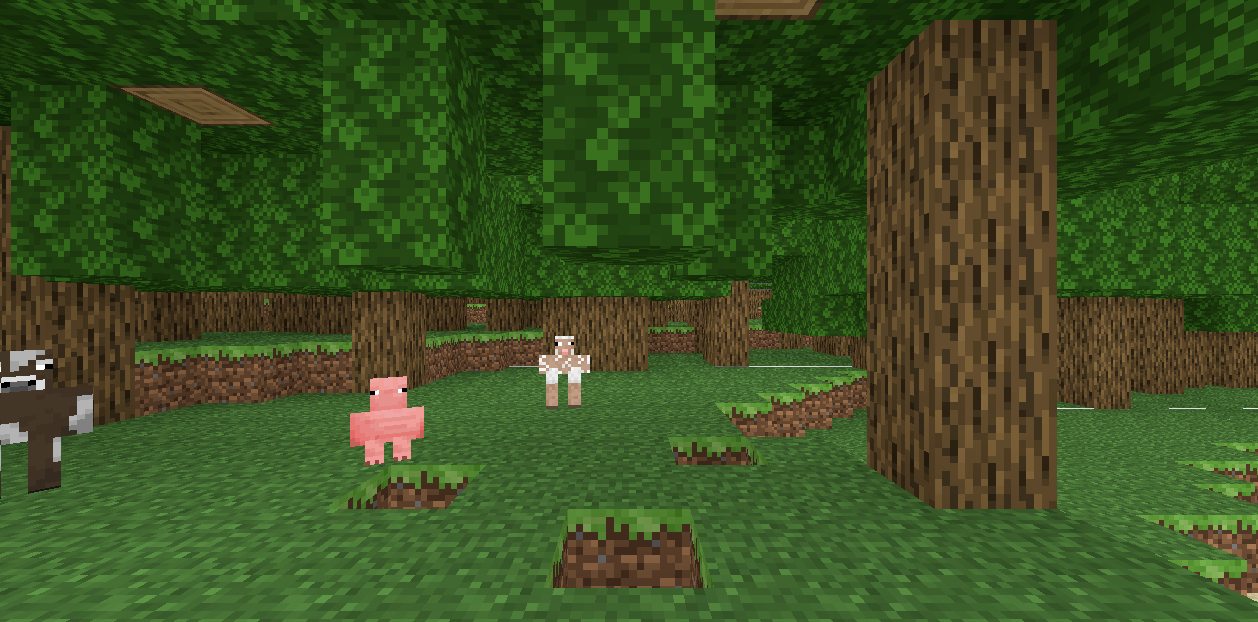
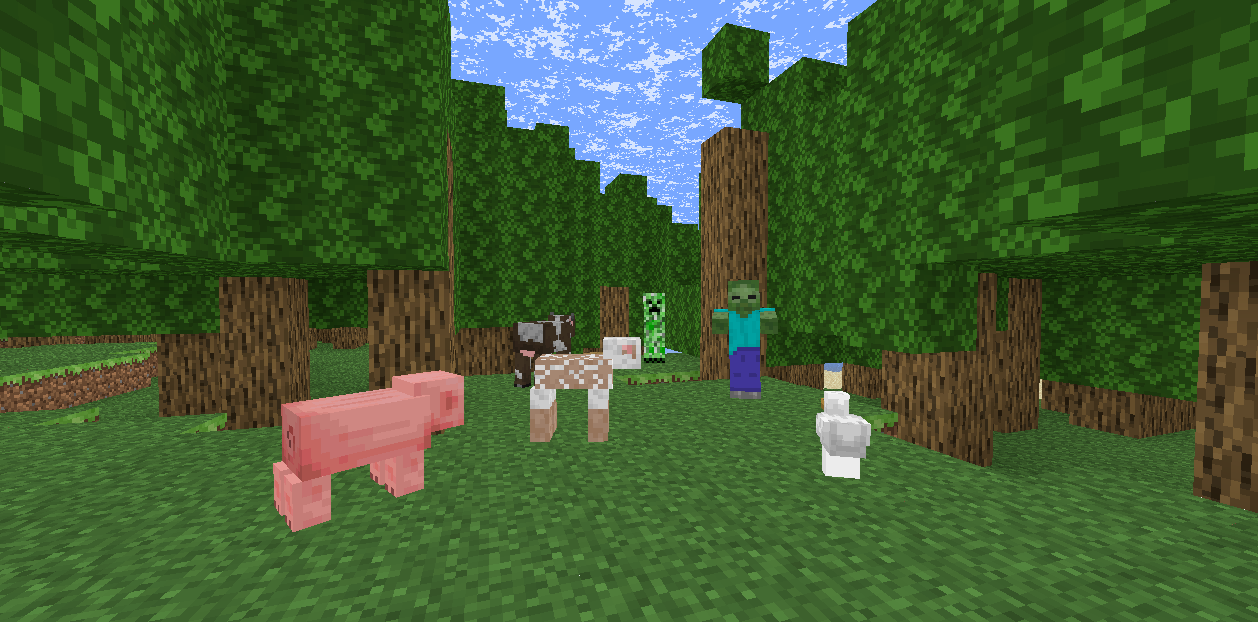
docs: 刷新截图（hero / mobs-final / mobtest / mobview 七张）并同步 README
截图：
- hero.png 用新的 heroshot 重拍（旧的还是七张立绘）
- mobs-final.png 重拍：差分里苦力怕占 21154 像素、猪 11688、牛 3201 等，
  七只都在真实世界里渲染出来了
- mobview-*.png 七张转台全部重出（十个机位）

README：
- 「实现取舍」加一条说明生物是照原版盒子表拼的长方体，六面明暗走顶点色
- 文件清单里 mobtex.js 从「生物贴图合成」改成「生物模型（盒子表 + 立方体展开图取面）」，
  mobs.js 从「生物 AI、寻路、渲染」改成「生物 AI、寻路、动作与朝向」
- 测试一节改成 14 个套件 / 477 条断言 / 约 96 秒，补上 textest 那一行，
  并把 mobtest+mobopttest 写成 58 + 13
- 工具说明里去掉已删的 uvcheck，补上 mobview / heroshot 的用途
- 已知限制补一条：羊只用 sheep.png，原版羊毛是单独叠一层 sheep_wool.png 的，
  这里没叠，所以羊看着是米白带棕点

diff --git a/README.md b/README.md
@@ -96,7 +96,7 @@ js/
   crafting.js         合成与熔炼配方
   inventory.js        背包数据、堆叠、耐久
   player.js           玩家物理、碰撞、相机
-  mobs.js             生物 AI、寻路、渲染
+  mobs.js             生物 AI、寻路、动作与朝向
   entities.js         掉落物实体
   survival.js         血量 / 饥饿 / 护甲
   furnace.js          熔炉逻辑
@@ -107,7 +107,7 @@ js/
   noise.js            噪声
   hud.js / hudview.js HUD 渲染
   textures.js         贴图图集
-  mobtex.js           生物贴图合成
+  mobtex.js           生物模型（盒子表 + 立方体展开图取面）
   worlddef.js         世界常量
   vendor/three.module.js   Three.js（本地内置）
 textures/             124 张贴图
@@ -121,7 +121,7 @@ node serve.mjs &          # 浏览器套件要它
 node tools/runall.mjs
 ```
 
-13 个套件、419 条断言，全绿约 90 秒：
+14 个套件、477 条断言，全绿约 96 秒：
 
 | 套件 | 覆盖 |
 |---|---|
@@ -129,14 +129,15 @@ node tools/runall.mjs
 | `oredist` | 矿石层位分布与基岩层（纯 Node，1 秒） |
 | `minebrowser` | 挖掘端到端：真实事件驱动的挖/放/右键长按/准星选中框（28 条） |
 | `lighttest` / `lightprop` / `meshlighttest` | 光照计算 / 传播 / 渲染 |
-| `mobtest` / `mobopttest` | 生物行为回归与性能优化 |
+| `mobtest` / `mobopttest` | 生物行为与模型回归、性能优化（58 + 13 条） |
+| `textest` | 贴图与颜色：sRGB 管线、皮甲染色、生物盒子几何（36 条） |
 | `orechaintest` | 连锁挖矿、砍树、掉落合并、耐久按格数扣 |
 | `invtest` | 背包与合成交互（86 条） |
 | `layouttest` | HUD 布局 |
 | `bedtest` | 床与睡觉 |
 | `soundtest` | 音效调用 |
 
-**没有用任何测试框架**。纯 Node 脚本自己断言、自己打总表，浏览器套件用 CDP 连无头 Chrome（SwiftShader 软件渲染）跑真事件。`tools/` 里其余文件（`mobview`、`lightshot`、`uvcheck`、`cowmap` 等）是一次性诊断工具，不带断言、不参与基线。
+**没有用任何测试框架**。纯 Node 脚本自己断言、自己打总表，浏览器套件用 CDP 连无头 Chrome（SwiftShader 软件渲染）跑真事件。`tools/` 里其余文件（`lightshot`、`cowmap`、`texmap`、`mobview`、`heroshot` 等）是诊断 / 出图工具，不带断言、不参与基线 —— `mobview` 是生物 3D 转台相机，可以逐只、逐块、多机位拍 PNG 核对模型；`heroshot` 出 README 那张封面，固定机位 + 固定一群生物，可复跑。
 
 ```bash
 node tools/invtest.mjs        # 单独跑某一个
@@ -149,12 +150,14 @@ node tools/invtest.mjs        # 单独跑某一个
 - **光照分两个通道**。天光和方块光各自用 6 邻居 BFS 传播，渲染时取 max。这样火把在地下才有意义。
 - **交互逻辑尽量抽成方法**。主循环里的东西天生难测，所以"吸掉落物""算连锁范围""算挖掘耗时"都抽成了独立方法，测试可以一次调用就给出确定结论，而不是"等 300 毫秒看它响了几声"。
 - **贴图全部离线预生成**。图集在加载时一次性拼好，运行时不碰网络。
+- **生物是照原版模型数据拼的长方体**。`mobtex.js` 里存的是从原版 `ModelQuadruped` / `ModelChicken` / `ModelBiped` 抄下来的盒子表（轴心 `setRotationPoint`、六个面的 UV 都按原版立方体展开图算），运行时拼成一组 mesh 挂在轴心 `Group` 上，迈步就是绕轴心转。引擎没有实体光照，所以六个面的明暗是用顶点色写死的固定亮度（顶 1.0 / 前后 0.92 / 左右 0.78 / 底 0.62）乘上去。
 
 ## 已知限制
 
 - 单机。没有多人、没有服务端。
 - 没有红石、附魔、酿造、村民、下界。
 - 生物只有 7 种。
+- 羊只用了 `sheep.png`。原版羊是「一层羊毛模型 + 一层本体」，羊毛那层用的是单独的 `sheep_wool.png`（按染料染色）；这里没叠，所以羊看着是米白底带棕点，不像原版那样是一整身白羊毛。
 - 没有配方书，配方得自己记（或者翻 `js/crafting.js`）。
 - 山地群系在地图上占比很低，绿宝石不好找。
 - 网格构建在 CPU 上做，渲染距离拉到 8 会明显吃性能。
